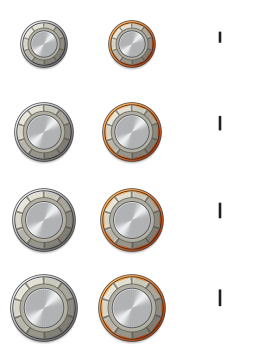
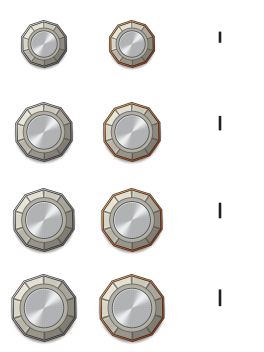
Meter 0..-24 dB under glass with smoothing, faceted knob outline, centered tube, orange gradient
Claude-Session: https://claude.ai/code/session_01U7SxQaxHMvfuTayBcgx1EU

diff --git a/main.c b/main.c
@@ -68,10 +68,12 @@ unsigned int _newlib_heap_size_user = 64 * 1024 * 1024;
 #define WAVE_H  180
 #define SEG_W   378                            /* ширина мини-дисплея в режиме сплита */
 #define N_WAVE_TEX 4
-#define METER_X 930              /* стеклянная трубка уровня */
+#define METER_X 918              /* стеклянная трубка уровня */
 #define METER_Y 74
 #define METER_W 18
 #define METER_H 236
+#define METER_TICKS 8           /* от 0 до -24 дБ, засечка каждые 3 дБ */
+#define METER_DB 24
 #define PN_X 10
 #define PN_Y 362
 #define PN_W 938
@@ -2438,7 +2440,7 @@ typedef struct {
 /* градиент трубки уровня: внизу тёплый жёлтый, выше оранжевый, наверху красно-оранжевый; объём - тенью по ширине */
 static void meter_render(Canvas *c) {
     static const float pos[5] = { 0.0f, 0.35f, 0.62f, 0.86f, 1.0f };
-    static const int col[5][3] = { { 255, 214, 50 }, { 255, 176, 28 }, { 255, 132, 20 }, { 246, 84, 18 }, { 226, 40, 18 } };
+    static const int col[5][3] = { { 255, 180, 34 }, { 255, 150, 26 }, { 255, 118, 20 }, { 246, 80, 18 }, { 226, 40, 18 } };
     for (int y = 0; y < c->h; y++) {
         float t = 1.0f - (float)y / (float)(c->h - 1);
         int k = 0;
@@ -2447,11 +2449,42 @@ static void meter_render(Canvas *c) {
         float r = col[k][0] + (col[k + 1][0] - col[k][0]) * f, g = col[k][1] + (col[k + 1][1] - col[k][1]) * f, b = col[k][2] + (col[k + 1][2] - col[k][2]) * f;
         for (int x = 0; x < c->w; x++) {
             float u = ((float)x + 0.5f) / (float)c->w * 2.0f - 1.0f;
-            float sh = 1.0f - 0.42f * u * u + ((u < -0.15f && u > -0.65f) ? 0.2f : 0.0f);
+            float sh = 1.0f - 0.30f * u * u;
             int rr = (int)(r * sh), gg = (int)(g * sh), bb = (int)(b * sh);
             c->px[y * c->w + x] = RGBA8(rr > 255 ? 255 : rr, gg > 255 ? 255 : gg, bb > 255 ? 255 : bb, 255);
         }
     }
+}
+
+/* стекло поверх трубки (размер METER_W+8 x METER_H+8): тень от оправы, блик сверху, вертикальный отсвет, нижний отсвет */
+static void meter_glass_render(Canvas *c) {
+    int w = c->w, h = c->h;
+    for (int y = 0; y < h; y++)
+        for (int x = 0; x < w; x++) {
+            float fx = (float)(x - 4) / (float)METER_W, fy = (float)(y - 4) / (float)METER_H;   /* 0..1 внутри трубки */
+            float a = 0.0f, wr = 0.0f;
+            /* внутренняя тень под оправой */
+            float dtop = (float)(y - 4), dl = (float)(x - 4), dr = (float)(METER_W - 1 - (x - 4));
+            if (dtop < 9.0f) a += 0.55f * (1.0f - dtop / 9.0f) * (1.0f - dtop / 9.0f);
+            if (dl < 3.0f) a += 0.35f * (1.0f - dl / 3.0f);
+            if (dr < 3.0f) a += 0.35f * (1.0f - dr / 3.0f);
+            if (a > 0.8f) a = 0.8f;
+            if (x >= 4 && x < 4 + METER_W && y >= 4 && y < 4 + METER_H && a > 0.0f) cv_put(c, x, y, RGBA8(0, 0, 0, 255), a);
+            /* блик: светлая полоса вдоль левой трети, затухает к краям */
+            if (x >= 4 && x < 4 + METER_W && y >= 4 && y < 4 + METER_H) {
+                float sx = (fx - 0.28f) / 0.09f, hx = expf(-sx * sx);
+                float vy = fy < 0.06f ? fy / 0.06f : (fy > 0.7f ? (1.0f - fy) / 0.3f : 1.0f);
+                if (vy < 0.0f) vy = 0.0f;
+                wr = 0.26f * hx * vy;
+                float gl = fy < 0.14f ? (1.0f - fy / 0.14f) * 0.16f : 0.0f;         /* общий блик сверху */
+                wr += gl;
+                float sy = (fy - 0.97f) / 0.015f;                                    /* тонкий отсвет у дна */
+                wr += 0.22f * expf(-sy * sy) * (fx > 0.1f && fx < 0.9f ? 1.0f : 0.0f);
+                if (wr > 0.0f) cv_put(c, x, y, RGBA8(255, 255, 255, 255), wr);
+            }
+        }
+    /* стеклянная кромка */
+    cv_rrect_stroke(c, 3.5f, 3.5f, (float)METER_W + 1.0f, (float)METER_H + 1.0f, 3.0f, 1.0f, RGBA8(255, 255, 255, 60));
 }
 
 /* ====================================================================
@@ -2498,20 +2531,17 @@ static void skin_render_static(Canvas *c) {
     cv_rrect_stroke(c, 899, 49, 50, 20, 3, 1.0f, RGBA8(10, 6, 4, 255));
     cv_rrect(c, 899, 318, 50, 26, 3, RGBA8(24, 15, 10, 255));             /* окно пика */
     cv_rrect_stroke(c, 899, 318, 50, 26, 3, 1.0f, RGBA8(10, 6, 4, 255));
-    cv_rrect(c, METER_X - 3, METER_Y - 3, METER_W + 6, METER_H + 6, 5, RGBA8(30, 26, 22, 255));
-    cv_rrect(c, METER_X - 1, METER_Y - 1, METER_W + 2, METER_H + 2, 4, RGBA8(10, 8, 6, 255));
-    for (int x = 0; x < METER_W; x++) {                                    /* пустая часть: тёмное стекло */
+    /* окошко трубки: врезанная оправа со светлой кромкой, внутри тёмная пустая трубка */
+    cv_rrect(c, METER_X - 6, METER_Y - 5, METER_W + 12, METER_H + 12, 6, RGBA8(255, 255, 255, 120));     /* светлая кромка снизу-справа */
+    cv_rrect(c, METER_X - 6, METER_Y - 6, METER_W + 12, METER_H + 11, 6, RGBA8(96, 88, 72, 255));
+    cv_rrect(c, METER_X - 4, METER_Y - 4, METER_W + 8, METER_H + 8, 5, RGBA8(26, 22, 18, 255));
+    for (int x = 0; x < METER_W; x++) {                                    /* пустая часть: симметричная тёмная трубка */
         float u = ((float)x + 0.5f) / (float)METER_W * 2.0f - 1.0f;
-        float sh = 1.0f - 0.45f * u * u + (u < -0.2f && u > -0.7f ? 0.18f : 0.0f);
+        float sh = 1.0f - 0.30f * u * u;
         for (int y = 0; y < METER_H; y++) {
-            float gy = 0.85f + 0.15f * (float)y / (float)METER_H;
-            int v = (int)(70.0f * sh * gy);
+            int v = (int)(58.0f * sh);
             c->px[(METER_Y + y) * c->w + METER_X + x] = RGBA8(v, v - 5 > 0 ? v - 5 : 0, v - 10 > 0 ? v - 10 : 0, 255);
         }
-    }
-    for (int k = 0; k <= 10; k++) {                                        /* засечки каждые 6 дБ, длинные каждые 12 */
-        int yy = METER_Y + k * (METER_H - 1) / 10;
-        cv_rect(c, METER_X - 9 + (k % 2 ? 4 : 0), yy, (k % 2 ? 4 : 8), 1, RGBA8(90, 80, 66, 255));
     }
 
     /* панель управления */
@@ -2804,7 +2834,8 @@ static int g_wcodes[5][W_COUNT], g_page_keys[5] = { -1, -1, -1, -1, -1 }, g_last
 static uint32_t g_sig_top = 0;
 static int g_top_cur = -1, g_ctl_cur = -1, g_top_next = 0, g_ctl_next = 0;
 
-static Canvas g_cv_meter;
+static Canvas g_cv_meter, g_cv_mglass;
+static vita2d_texture *g_tex_mglass = NULL;
 
 static void upload_canvas(vita2d_texture *tex, const Canvas *c) {
     if (!tex) return;
@@ -2818,6 +2849,8 @@ static void ui_create_textures(void) {
     g_tex_glass = vita2d_create_empty_texture(CRT_W, CRT_H);
     g_tex_meter = vita2d_create_empty_texture(METER_W, METER_H);
     upload_canvas(g_tex_meter, &g_cv_meter);
+    g_tex_mglass = vita2d_create_empty_texture(METER_W + 8, METER_H + 8);
+    upload_canvas(g_tex_mglass, &g_cv_mglass);
     for (int i = 0; i < 2; i++) g_tex_top[i] = vita2d_create_empty_texture(SCR_W, TOP_H);
     for (int i = 0; i < 3; i++) g_tex_ctl[i] = vita2d_create_empty_texture(SCR_W, CTL_TH);
     upload_canvas(g_tex_bg, &g_cv_bg);
@@ -2843,6 +2876,9 @@ static int ui_init(void) {
     g_cv_meter.w = METER_W; g_cv_meter.h = METER_H; g_cv_meter.px = (uint32_t *)calloc((size_t)METER_W * METER_H, 4);
     if (!g_cv_meter.px) return 0;
     meter_render(&g_cv_meter);
+    g_cv_mglass.w = METER_W + 8; g_cv_mglass.h = METER_H + 8; g_cv_mglass.px = (uint32_t *)calloc((size_t)(METER_W + 8) * (METER_H + 8), 4);
+    if (!g_cv_mglass.px) return 0;
+    meter_glass_render(&g_cv_mglass);
     skin_render_static(&g_cv_bg);
     glass_render(&g_cv_glass);
     ui_create_textures();
@@ -2853,6 +2889,7 @@ static void ui_free_textures(void) {
     if (g_tex_bg) { vita2d_free_texture(g_tex_bg); g_tex_bg = NULL; }
     if (g_tex_glass) { vita2d_free_texture(g_tex_glass); g_tex_glass = NULL; }
     if (g_tex_meter) { vita2d_free_texture(g_tex_meter); g_tex_meter = NULL; }
+    if (g_tex_mglass) { vita2d_free_texture(g_tex_mglass); g_tex_mglass = NULL; }
     for (int i = 0; i < 2; i++) if (g_tex_top[i]) { vita2d_free_texture(g_tex_top[i]); g_tex_top[i] = NULL; }
     for (int i = 0; i < 3; i++) if (g_tex_ctl[i]) { vita2d_free_texture(g_tex_ctl[i]); g_tex_ctl[i] = NULL; }
 }
@@ -2897,6 +2934,7 @@ static void ui_update_textures(const UiState *u) {
  * ==================================================================== */
 static int tw(const char *s, float sc) { return text_w(s, sc); }
 static void text_c(int cx, int y, unsigned int col, float sc, const char *s) { text(cx - tw(s, sc) / 2, y, col, sc, s); }
+static void text_r(int rx, int y, unsigned int col, float sc, const char *s) { text(rx - tw(s, sc), y, col, sc, s); }
 
 /* курсоры, область между ними, головка воспроизведения */
 static void draw_overlays(const UiState *u) {
@@ -3162,22 +3200,27 @@ static void ui_draw(const UiState *u) {
 
     /* индикатор уровня: сплошной градиент в стеклянной трубке, пик, засечки, окна */
     {
-        int lit = u->level_pct * METER_H / 100;
+        int lit = u->level_pct * METER_H / 1000;
         if (lit > METER_H) lit = METER_H;
         if (lit > 0 && g_tex_meter)
             vita2d_draw_texture_part(g_tex_meter, (float)METER_X, (float)(METER_Y + METER_H - lit), 0.0f, (float)(METER_H - lit), (float)METER_W, (float)lit);
-        int ph = u->peak_pct * METER_H / 100;
-        if (ph > 2 && ph <= METER_H) rect(METER_X, METER_Y + METER_H - ph, METER_W, 2, RGBA8(255, 236, 176, 235));
-        for (int k = 0; k <= 10; k += 2) {
+        int ph = u->peak_pct * METER_H / 1000;
+        if (ph > 1 && ph <= METER_H) rect(METER_X, METER_Y + METER_H - ph, METER_W, 2, RGBA8(255, 236, 176, 235));
+        for (int k = 0; k <= METER_TICKS; k += 2) {
             char nb[8];
-            snprintf(nb, sizeof(nb), "%d", k * 6);
-            text(901, METER_Y + k * (METER_H - 1) / 10 + 4, K_BROWN, 0.5f, nb);
+            snprintf(nb, sizeof(nb), "%d", k * (METER_DB / METER_TICKS));
+            text_r(METER_X - 9, METER_Y + k * (METER_H - 1) / METER_TICKS + 4, K_BROWN, 0.5f, nb);
         }
-        rect(METER_X + 2, METER_Y, 3, METER_H, RGBA8(255, 255, 255, 20));       /* блик на стекле */
+        for (int k = 0; k <= METER_TICKS; k++) {                       /* засечки каждые 3 дБ на краях трубки (поверх заливки) */
+            int yy = METER_Y + k * (METER_H - 1) / METER_TICKS, tl = (k % 2 == 0) ? 5 : 3;
+            rect(METER_X, yy, tl, 1, RGBA8(20, 12, 6, 150));
+            rect(METER_X + METER_W - tl, yy, tl, 1, RGBA8(20, 12, 6, 150));
+        }
+        if (g_tex_mglass) vita2d_draw_texture(g_tex_mglass, METER_X - 4, METER_Y - 4);   /* стекло поверх трубки */
         if (u->clip > 0) { rect(899, 49, 50, 20, RGBA8(214, 32, 20, 255)); text_c(924, 63, K_CREAM_HI, 0.62f, "CLIP"); }
         else text_c(924, 63, RGBA8(120, 78, 40, 255), 0.62f, "CLIP");
         if (u->peak_pct > 0) {
-            int d10 = (u->peak_pct * 600 / 100) - 600;
+            int d10 = (u->peak_pct * METER_DB * 10 / 1000) - METER_DB * 10;
             char pb[12];
             snprintf(pb, sizeof(pb), "%d.%d", d10 / 10, abs(d10) % 10);
             text_c(924, 336, RGBA8(255, 138, 40, 255), 0.7f, pb);
@@ -3885,7 +3928,15 @@ static void perform_hit(int hit) {
 /* ====================================================================
  *  Главная программа
  * ==================================================================== */
-static int level_from_peak(int peak) { return level_percent(peak); }
+/* уровень для трубки: 0..1000 на диапазон 0...-METER_DB дБ */
+static int level_from_peak(int peak) {
+    if (peak <= 0) return 0;
+    float db = 20.0f * log10f((float)peak / 32768.0f);
+    float p = (db + (float)METER_DB) / (float)METER_DB;
+    if (p < 0.0f) p = 0.0f;
+    if (p > 1.0f) p = 1.0f;
+    return (int)(p * 1000.0f);
+}
 
 #ifndef SAMPLER_NO_MAIN
 int main(void) {
@@ -4586,11 +4637,13 @@ int main(void) {
         int lvl = (state == ST_IDLE) ? 0 : level_from_peak(g_level);
         if (g_level >= 32000 && state != ST_IDLE) clip_hold = 60;
         if (clip_hold > 0) clip_hold--;
-        if (lvl > shown_level) shown_level = lvl;
-        else shown_level = shown_level * 88 / 100;
+        if (lvl > shown_level) shown_level += (lvl - shown_level) * 40 / 100 + 1;      /* быстро вверх, но не рывком */
+        else shown_level -= (shown_level - lvl) * 7 / 100 + 3;                          /* медленно вниз */
+        if (shown_level > 1000) shown_level = 1000;
+        if (shown_level < 0) shown_level = 0;
         if (lvl >= peak_hold) { peak_hold = lvl; peak_f = 75; }      /* пик держится 1.2 с, потом медленно падает */
         else if (peak_f > 0) peak_f--;
-        else peak_hold = peak_hold * 97 / 100;
+        else { peak_hold -= 4; if (peak_hold < 0) peak_hold = 0; }
 
         /* ---- данные для рисования ---- */
         UiState u;

diff --git a/tools/gen_assets.py b/tools/gen_assets.py
@@ -79,31 +79,31 @@ def knob_body(R, active):
     d = np.hypot(x, y - 2.2)                                                       # тень: короткая и плотная
     over(img, C((40, 28, 16)), 0.42 * np.clip((R + 4.4 - d) / 3.2, 0, 1) ** 1.3)
     light = 0.5 + 0.5 * np.cos(th + 2.356)                                         # свет сверху-слева
-    # юбка (металлическое кольцо у основания)
-    if active:
-        skirt = lerp((170, 62, 16), (255, 176, 92), light)
-    else:
-        skirt = lerp((110, 112, 114), (236, 238, 240), light ** 1.2)
-    over(img, skirt, cover(r - (R + 3.4)))
-    over(img, C((50, 50, 52)), 0.8 * cover(np.abs(r - (R + 3.4)) - 0.4))
-    over(img, C((40, 38, 34)), 0.9 * cover(np.abs(r - (R + 1.2)) - 0.4))           # щель между юбкой и корпусом
-    # многогранный корпус
     N = 10
     sec = 2 * np.pi / N
     off = 0.3
     ang = np.mod(th - off, 2 * np.pi)
     k = np.floor(ang / sec)
     loc = ang - k * sec - sec / 2
-    Rp = R + 1.0
-    dpoly = r * np.cos(loc) - Rp * np.cos(sec / 2)
+    def poly(Rc):
+        return r * np.cos(loc) - Rc * np.cos(sec / 2)
+    Rp = R + 2.2                                                                   # многогранный корпус (острые рёбра)
+    # юбка — тоже многогранник, чуть шире корпуса
+    if active:
+        skirt = lerp((170, 62, 16), (255, 176, 92), light)
+    else:
+        skirt = lerp((110, 112, 114), (236, 238, 240), light ** 1.2)
+    over(img, skirt, cover(poly(Rp + 1.5)))
+    over(img, C((50, 50, 52)), 0.85 * cover(np.abs(poly(Rp + 1.5)) - 0.4))
+    over(img, C((40, 38, 34)), 0.9 * cover(np.abs(poly(Rp - 0.1)) - 0.4))
     face_ang = off + (k + 0.5) * sec
     fl = 0.5 + 0.5 * np.cos(face_ang + 2.356)                                      # яркость грани: плоская на всю грань
     plastic = lerp((128, 126, 116), (232, 230, 216), fl ** 1.1)
-    over(img, plastic, cover(dpoly))
-    # рёбра между гранями: тонкие тёмные и светлые линии
-    ed = np.abs(loc) > sec / 2 - 0.035
-    over(img, C((70, 68, 60)), 0.55 * ed * (r > 0.8 * R) * cover(dpoly + 0.2))
-    over(img, C((255, 255, 255)), 0.22 * (np.abs(np.abs(loc) - (sec / 2 - 0.075)) < 0.02) * (r > 0.8 * R) * cover(dpoly + 0.2) * (fl > 0.5))
+    over(img, plastic, cover(poly(Rp - 0.6)))
+    dpoly = poly(Rp - 0.6)
+    ed = np.abs(loc) > sec / 2 - 0.03
+    over(img, C((70, 68, 60)), 0.6 * ed * (r > 0.8 * R) * cover(dpoly + 0.2))
+    over(img, C((255, 255, 255)), 0.25 * (np.abs(np.abs(loc) - (sec / 2 - 0.07)) < 0.02) * (r > 0.8 * R) * cover(dpoly + 0.2) * (fl > 0.5))
     # верхняя площадка пластика (фаска от граней) и диск из шлифованного металла
     ri = 0.80 * R
     over(img, lerp((214, 212, 200), (170, 168, 156), np.clip((r / ri), 0, 1) ** 2), cover(r - ri))

diff --git a/host/preview.c b/host/preview.c
@@ -80,7 +80,7 @@ static void scene(UiState *u, int page, int mode, int state) {
     u->page = page; u->mode = mode; u->state = state; u->loop = 1; u->fx_sec = 0;
     u->length = len; u->playhead = len / 3; u->split = 0;
     u->c1 = len * 0.2; u->c2 = len * 0.75; u->active = 0;
-    u->level_pct = 72; u->peak_pct = 84; u->clip = 0;
+    u->level_pct = 640; u->peak_pct = 780; u->clip = 0;
     snprintf(u->msg, sizeof(u->msg), "Loop ON");
     u->sl_n = 8; u->sl_sel = 2; u->sl_playing = (state == ST_PLAYING && mode == 1) ? 2 : -1;
     u->can_undo = 1; u->bpm = 124; u->bpm_t = 124; u->bpm_b = 120;
